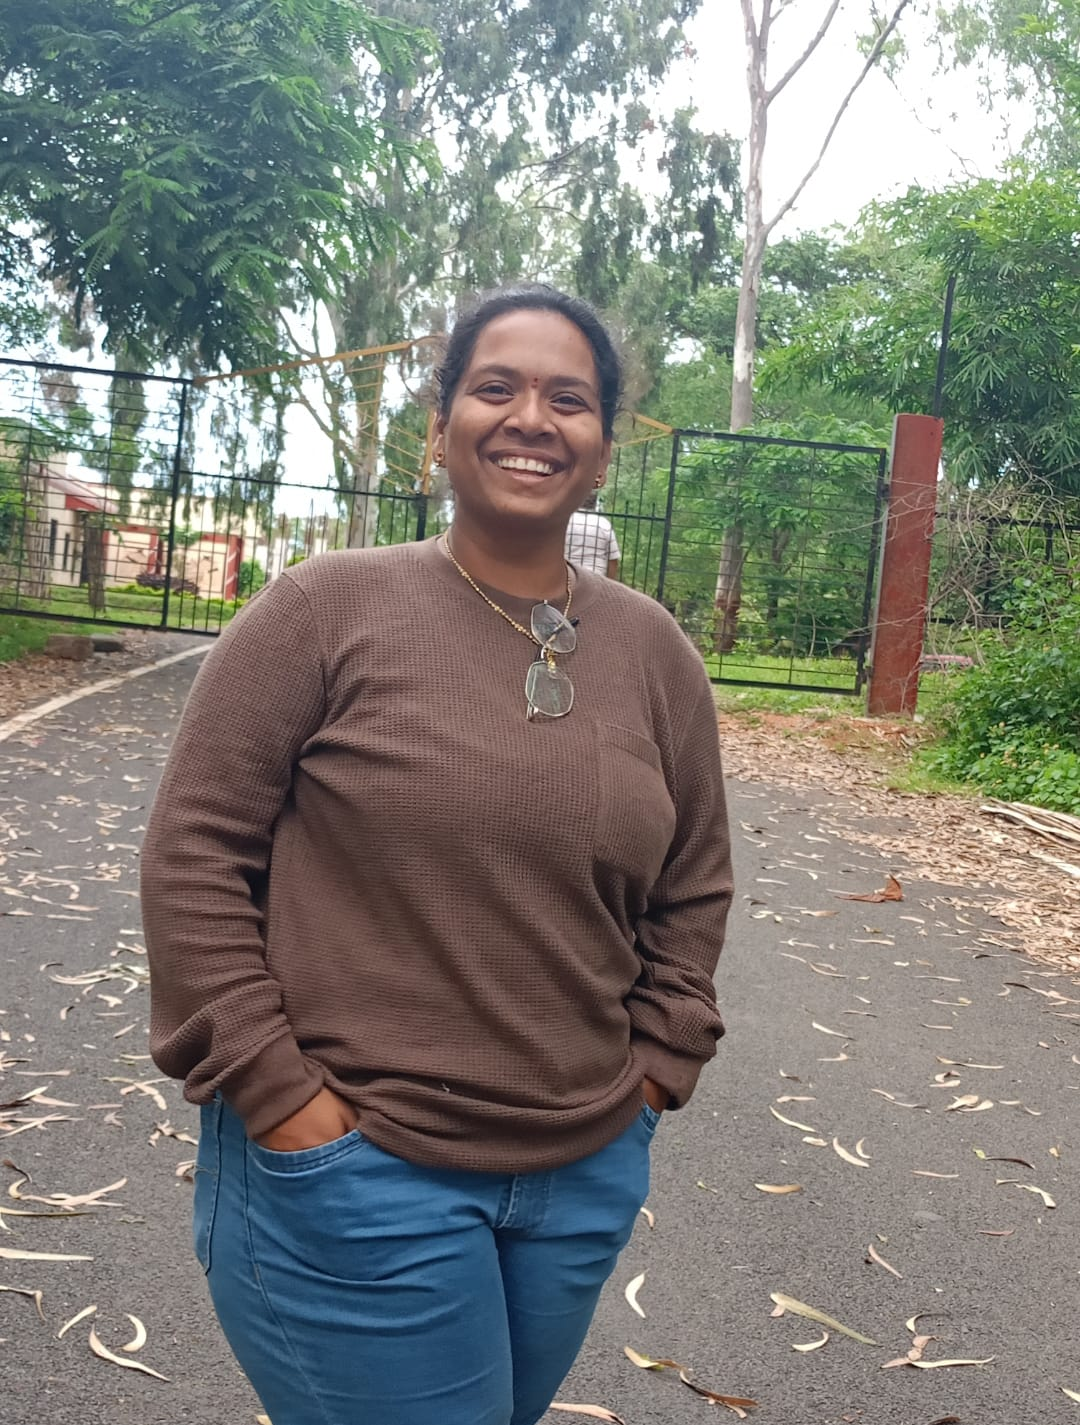
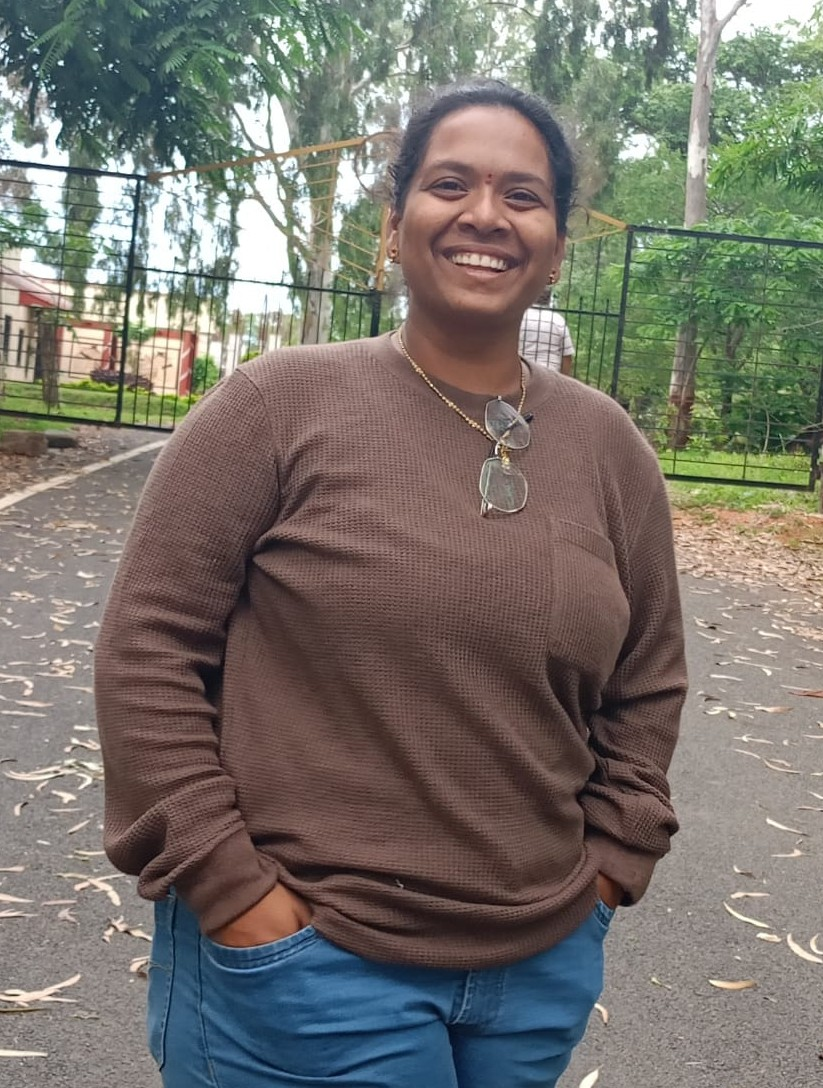
12

diff --git a/style.css b/style.css
@@ -113,7 +113,7 @@ body{
     font-size:20px;
 }
 .image{
-    border-radius: 35%;
+    border-radius: 0%;
     margin-left: 0px;
     margin-top: 0px;
 }
